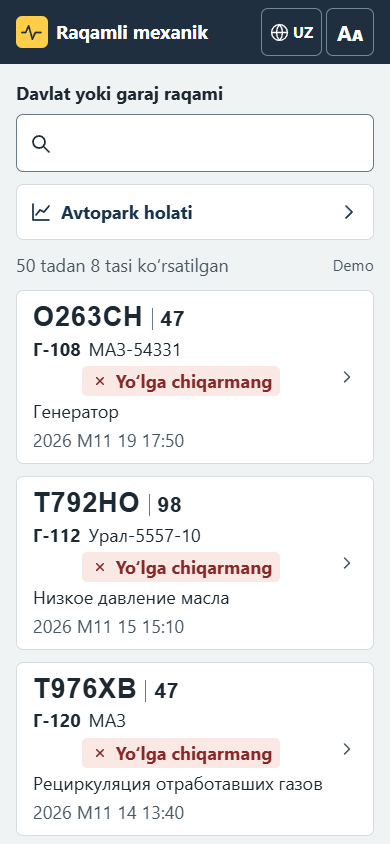
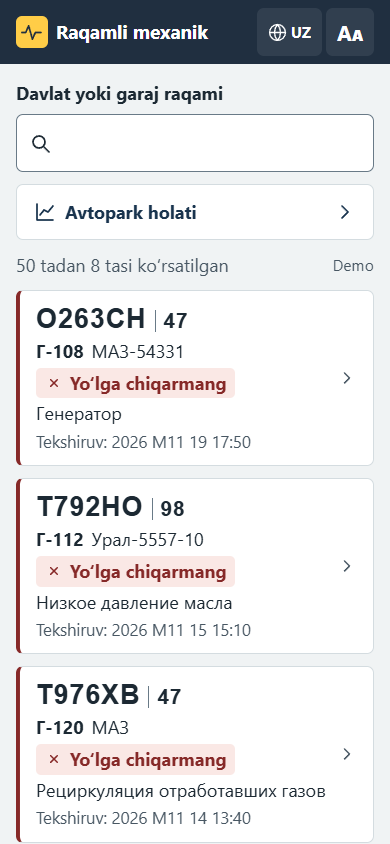
Дизайн: статус в карточках по левой кромке (align-self у плашки), цветная кромка статуса у машин, лёгкие кнопки шапки, кнопка заявки как главное действие, список прошлых проверок без рамок в рамке, компактные ссылки [n] в тексте с увеличенной зоной нажатия, автовысота полей черновика, выравнивание м

diff --git a/web/styles.css b/web/styles.css
@@ -51,7 +51,7 @@ p, li, dd, h1, h2, h3, strong, .brand, .pill, button { overflow-wrap: anywhere; 
 .mark { display: grid; place-items: center; flex: none; width: 32px; height: 32px; border-radius: 6px; background: var(--yellow); color: var(--dark); }
 .mark .icon { width: 23px; height: 23px; }
 .demo { color: var(--muted); font-size: .86rem; }
-#language, #font-size, .back-button, .manual-top button { min-height: 48px; min-width: 48px; padding: 0 8px; border-color: #73879c; }
+#language, #font-size, .back-button, .manual-top button { min-height: 48px; min-width: 48px; padding: 0 10px; border-color: transparent; background: #ffffff14; }
 #language { gap: 4px; font-size: 15px; }
 #language .icon { width: 19px; height: 19px; }
 #font-size { font-size: 21px; }
@@ -76,12 +76,15 @@ button, .source-link { display: inline-flex; min-width: var(--target); min-heigh
 button:not(:disabled):active, summary:active, .citation-row:active, .source-link:active { background: var(--active); color: var(--ink); box-shadow: inset 0 0 0 2px var(--action); }
 button:disabled { color: #4b5865; border-color: #8997a1; background: #e9eef1; cursor: not-allowed; }
 .full { width: 100%; }
+/* главное действие после вердикта: заливка, текст слева, стрелка справа – как у остальных строк-переходов */
+[data-command=draft] { background: var(--action); border-color: var(--action); color: var(--white); justify-content: space-between; text-align: start; padding-inline: 16px 13px; font-size: 1.06rem; }
+[data-command=draft]:not(:disabled):active { background: #325676; color: var(--white); }
 .primary { background: var(--action); border-color: var(--action); color: var(--white); font-size: 1.06rem; }
 .primary:not(:disabled):active { background: #325676; color: var(--white); }
 .icon-button { width: var(--target); padding: 0; flex: none; }
 .top button { background: transparent; color: var(--white); }
 .top button:not(:disabled):active { background: #516b84; color: var(--white); }
-.pill { display: inline-flex; align-items: center; justify-self: start; align-self: center; gap: 6px; max-width: 100%; border-radius: 5px; padding: 4px 8px; background: #e4eae8; color: #324445; font-weight: 750; line-height: 1.25; }
+.pill { display: inline-flex; align-items: center; justify-self: start; gap: 6px; max-width: 100%; border-radius: 5px; padding: 4px 8px; background: #e4eae8; color: #324445; font-weight: 750; line-height: 1.25; }
 .pill .icon { width: 20px; height: 20px; }
 .green { background: var(--green-bg); color: var(--green); }
 .amber { background: var(--amber-bg); color: var(--amber); }
@@ -95,10 +98,10 @@ button:disabled { color: #4b5865; border-color: #8997a1; background: #e9eef1; cu
 .search:focus-within { outline: 3px solid #005bad; outline-offset: 2px; }
 .search input { width: 100%; min-width: 0; min-height: var(--target); padding: 8px 10px 8px 0; border: 0; outline: none; background: transparent; }
 .search button { border: 0; }
-.wide-link { width: 100%; justify-content: flex-start; color: var(--action); border-color: var(--line); }
+.wide-link { width: 100%; justify-content: flex-start; padding-inline: 16px; color: var(--action); border-color: var(--line); }
 .wide-link .icon:last-child { margin-inline-start: auto; }
 .vehicle-list { display: grid; gap: 12px; }
-.vehicle-row, .check-row { width: 100%; padding: 12px 16px; border-color: var(--line); display: grid; grid-template-columns: minmax(0,1fr) 20px; align-items: center; text-align: left; font-weight: 400; }
+.vehicle-row, .check-row { width: 100%; padding: 14px 16px; border-color: var(--line); display: grid; grid-template-columns: minmax(0,1fr) 20px; align-items: center; text-align: left; font-weight: 400; }
 .vehicle-row > .icon, .check-row > .icon { width: 20px; color: var(--muted); }
 .row-copy, .vehicle-head, .selection, .check-copy { display: grid; gap: 8px; min-width: 0; }
 .plate { justify-self: start; display: inline-flex; align-items: baseline; white-space: nowrap; font: 770 1.52rem/1.04 Arial, sans-serif; font-variant-numeric: lining-nums tabular-nums; font-feature-settings: 'zero' 0; letter-spacing: .025em; }
@@ -106,11 +109,17 @@ button:disabled { color: #4b5865; border-color: #8997a1; background: #e9eef1; cu
 .vehicle-head .plate { font-size: 1.83rem; }
 .row-model, .status-line { display: flex; flex-wrap: wrap; align-items: baseline; gap: 4px 8px; min-width: 0; }
 .row-model > span, .cause { overflow-wrap: anywhere; }
-.garage { white-space: nowrap; }
+.garage { white-space: nowrap; font-weight: 650; }
 .status-line { flex-direction: column; align-items: flex-start; }
+/* цветная кромка слева – статус читается боковым зрением ещё до текста */
+.vehicle-row { border-inline-start-width: 4px; }
+.vehicle-row[data-stage=quarantine] { border-inline-start-color: var(--red); }
+.vehicle-row[data-stage=anomaly] { border-inline-start-color: #d29a00; }
+.vehicle-row[data-stage=check_failed] { border-inline-start-color: var(--violet); }
+.vehicle-row[data-stage=normal] { border-inline-start-color: #3a9a63; }
 .cause { color: var(--ink); }
 .vehicle-row .row-copy { gap: 6px; }
-.vehicle-row .row-date { color: var(--muted); font-size: 1rem; }
+.vehicle-row .row-date { color: var(--muted); font-size: .92rem; }
 .vehicle-row .plate-region { margin-inline-start: 8px; padding-inline-start: 8px; }
 .selection time, .check-copy time { font-weight: 650; }
 .selection .primary { margin-top: 4px; }
@@ -121,7 +130,7 @@ button:disabled { color: #4b5865; border-color: #8997a1; background: #e9eef1; cu
 .fleet-count strong { font-size: 1.29rem; line-height: 1.15; font-variant-numeric: tabular-nums; }
 .fleet-count[aria-pressed=true] { border-color: currentColor; box-shadow: inset 0 0 0 1px currentColor; }
 .context { min-width: 0; display: flex; align-items: baseline; flex-wrap: wrap; justify-content: space-between; gap: 4px 12px; }
-.context time { color: var(--muted); font-weight: 600; }
+.context time { color: var(--muted); font-weight: 500; font-size: .92rem; }
 .verdict, .turn, #conversation { display: grid; gap: 12px; min-width: 0; }
 .turn:empty { display: none; }
 .verdict-head { display: grid; gap: 12px; padding: 16px; border-radius: var(--radius); }
@@ -133,7 +142,7 @@ button:disabled { color: #4b5865; border-color: #8997a1; background: #e9eef1; cu
 .priority-label { font-weight: 650; }
 .warnings { display: grid; grid-template-columns: 24px minmax(0,1fr); gap: 8px; }
 .warnings h3 { margin-bottom: 4px; }
-.reasons { margin: 0; padding-inline-start: 24px; }
+.reasons { margin: 0; padding-inline-start: 1.15em; }
 .reasons li + li { margin-top: 4px; }
 .warnings ul:has(li:only-child) { list-style: none; padding-inline: 0; }
 .metrics { display: grid; gap: 8px; }
@@ -144,7 +153,11 @@ summary { display: flex; min-height: var(--target); align-items: center; flex-wr
 summary::-webkit-details-marker { display: none; }
 summary::after { content: ''; width: 9px; height: 9px; flex: none; border: solid var(--ink); border-width: 0 2px 2px 0; transform: rotate(45deg); margin-inline-start: auto; margin-inline-end: 3px; }
 details[open] > summary::after { transform: rotate(225deg); }
-.fold-body { display: grid; gap: 8px; margin: 0; padding: 0 12px 12px; min-width: 0; }
+.fold-body { display: grid; gap: 8px; margin: 0; padding: 0 16px 16px; min-width: 0; }
+/* строки внутри раскрывающегося блока – список с разделителями, без рамок в рамке */
+.fold .checks { gap: 0; margin-inline: -16px; margin-bottom: -16px; }
+.fold .check-row { border: 0; border-top: 1px solid var(--line); border-radius: 0; background: transparent; }
+.fold .check-row:last-child { border-radius: 0 0 8px 8px; }
 ol.fold-body { padding-inline-start: 30px; }
 .user-message { justify-self: end; max-width: 94%; padding: 10px 12px; border: 1px solid var(--line); border-radius: 8px 8px 3px 8px; background: #e0eae4; }
 .user-message p, .receipt-fields dd { white-space: pre-wrap; }
@@ -152,15 +165,17 @@ ol.fold-body { padding-inline-start: 30px; }
 .markdown ul, .markdown ol { display: grid; gap: 8px; padding-inline-start: 24px; margin: 0; }
 .measure { white-space: nowrap; }
 .citation-chip { display: inline-flex; align-items: center; justify-content: center; padding: 2px 6px; border-radius: 5px; background: var(--neutral-bg); color: var(--action); font-weight: 750; text-decoration: underline; white-space: nowrap; }
-.inline-cite { min-height: 44px; min-width: 44px; vertical-align: middle; }
+/* ссылка в тексте выглядит компактно и не раздвигает строки, а зона нажатия расширена невидимой рамкой */
+.inline-cite { position: relative; min-height: 0; min-width: 0; padding: 0 5px; font-size: .86em; line-height: 1.35; vertical-align: baseline; }
+.inline-cite::after { content: ''; position: absolute; inset: -12px -8px; }
 .inline-cite:active { background: var(--active); }
 .message-sources { display: grid; gap: 8px; padding-top: 12px; border-top: 1px solid var(--line); }
-.message-sources ul { list-style: none; padding: 0; margin: 0; display: grid; gap: 12px; }
+.message-sources ul { list-style: none; padding: 0; margin: 0; display: grid; gap: 8px; }
 .message-sources li + li { border-top: 1px solid var(--line); padding-top: 8px; }
 .citation-row { display: flex; align-items: center; min-height: 48px; color: var(--action); text-decoration: underline; text-underline-offset: 3px; }
 .citation-excerpt { display: -webkit-box; -webkit-box-orient: vertical; -webkit-line-clamp: 2; overflow: hidden; }
 .source-excerpt.is-expanded .citation-excerpt { display: block; }
-.excerpt-toggle { min-width: 48px; min-height: 48px; border-color: transparent; padding-inline: 0; font-size: .93rem; text-decoration: underline; color: var(--action); }
+.excerpt-toggle { justify-self: start; min-width: 48px; min-height: 48px; border-color: transparent; padding-inline: 0; font-size: .93rem; text-decoration: underline; color: var(--action); }
 .source-link { justify-content: flex-start; text-align: start; color: var(--green); overflow-wrap: anywhere; }
 .source-link .icon:last-child { margin-inline-start: auto; }
 .notice { padding: 12px; border-radius: 8px; }
@@ -185,7 +200,10 @@ ol.fold-body { padding-inline-start: 30px; }
 #send-question { max-width: 10ch; min-width: 94px; padding-inline: 8px; font-size: .94rem; }
 #voice-live { align-self: stretch; }
 .field { display: grid; font-weight: 700; gap: 8px; min-width: 0; }
-.field textarea { resize: vertical; max-height: 16em; }
+.field-static { display: grid; gap: 4px; }
+.field-static > span { font-weight: 700; }
+.field-static strong { font-weight: 600; }
+.field textarea { resize: vertical; max-height: 24em; overflow-y: auto; }
 @supports (field-sizing: content) { .field textarea { field-sizing: content; } }
 .receipt { display: grid; gap: 8px; padding: 16px; border-radius: var(--radius); }
 .receipt-id { font-size: 2rem; line-height: 1.1; }
@@ -199,6 +217,7 @@ ol.fold-body { padding-inline-start: 30px; }
 #manual, #language-dialog { border: 0; background: var(--paper); color: var(--ink); }
 dialog::backdrop { background: #172326b3; }
 #language-dialog { width: min(calc(100% - 24px), 420px); max-height: calc(100dvh - 24px); border-radius: 12px; padding: 16px; }
+.sheet-head button { border-color: transparent; background: var(--neutral-bg); }
 .sheet-head { display: flex; align-items: center; justify-content: space-between; gap: 8px; margin-bottom: 8px; }
 .language-list { display: grid; gap: 4px; }
 .language-list button { justify-content: flex-start; text-align: start; border-color: var(--line); }
@@ -213,7 +232,8 @@ dialog::backdrop { background: #172326b3; }
 .manual-controls { display: grid; grid-template-columns: minmax(0, 1fr); gap: 8px; }
 .page-navigation, .zoom-group { display: flex; align-items: center; justify-content: space-between; gap: 8px; }
 .page-navigation strong, .zoom-group output { white-space: nowrap; font-variant-numeric: tabular-nums; }
-.zoom-group > span { margin-inline-end: auto; font-weight: 700; }
+.zoom-group { justify-content: flex-start; }
+.zoom-group > span { margin-inline-end: 4px; font-weight: 700; }
 .manual-text { display: grid; gap: 8px; }
 .page-text { white-space: pre-wrap; overflow-wrap: anywhere; }
 .page-text mark, .matched-quote { background: var(--active); color: var(--ink); }

diff --git a/web/app.js b/web/app.js
@@ -353,7 +353,7 @@ function verdict(c, d, id, opens) {
   const cause = !normal && !fail && !incompatible && d.anomaly_title;
   const entries = Array.isArray(d.urgency_reasons) ? d.urgency_reasons.filter(Boolean) : [];
   // The API sometimes sends a metrics readout as one of the reasons.
-  const isMetricsLine = line => /^(?:оценка отклонения|отклонение|(?:anomaly )?score)\s+\d/i.test(line) && /(?:уверенность|confidence)/i.test(line);
+  const isMetricsLine = line => (/^(?:оценка отклонения|отклонение|(?:anomaly )?score)\s+\d/i.test(line) && /(?:уверенность|confidence)/i.test(line)) || /^код по справочнику/i.test(line);
   const whyLines = entries.map((line, index) => isMetricsLine(line) ? -1 : index).filter(index => index >= 0).slice(0, 2);
   const otherReasons = entries.filter((_, index) => !whyLines.includes(index));
   const card = el('div', {class: `verdict-head ${stages[status][1]}`}, el('h2', {}, vTitle),
@@ -363,7 +363,7 @@ function verdict(c, d, id, opens) {
     el('div', {class: 'next-action'}, !normal && el('h3', {}, t('next')),
       el('p', {}, d.action || t(fail ? 'nextFail' : normal ? 'nextNormal' : 'nextAnomaly')),
       fail && reasons(['recordTip1', 'recordTip2', 'recordTip3'].map(key => t(key)))),
-    whyLines.length ? el('div', {class: 'verdict-why'}, el('h3', {}, t('why')), reasons(whyLines.map(index => entries[index]))) : null,
+    !fail && whyLines.length ? el('div', {class: 'verdict-why'}, el('h3', {}, t(normal ? 'note' : 'why')), reasons(whyLines.map(index => entries[index]))) : null,
     priorityLabel(d.urgency) && el('p', {class: 'priority-label'}, priorityLine(d.urgency)));
   const metrics = el('dl', {class: 'metrics'}, metric(t('score'), score(d.anomaly_score) ? `${scoreText(d.anomaly_score)} / 1` : null),
     metric(t('confidence'), score(d.confidence) ? `${scoreText(d.confidence)} / 1` : null), metric(t('quality'), qualities[d.signal_quality] && t(qualities[d.signal_quality])));
@@ -796,8 +796,10 @@ async function sendChat(c, mode, question = '') {
 }
 
 function field(c, name, label, rows, placeholder = '') {
-  const input = el('textarea', {name, rows, placeholder, required: name === 'conclusion', oninput: e => { c.edits[name] = e.target.value; }});
+  const grow = node => { node.style.height = 'auto'; node.style.height = `${node.scrollHeight + 2}px`; };
+  const input = el('textarea', {name, rows, placeholder, required: name === 'conclusion', oninput: e => { c.edits[name] = e.target.value; grow(e.target); }});
   input.value = displayText(c.edits[name]);
+  requestAnimationFrame(() => grow(input));
   return el('label', {class: 'field'}, el('span', {}, label), input);
 }
 function renderDraft(v, s, c) {
@@ -812,11 +814,11 @@ function renderDraft(v, s, c) {
   syncOverride();
   const references = (d.references ?? []).filter(r => r.manual_id && Number.isInteger(r.pdf_page) && r.pdf_page > 0);
   const form = el('form', {class: 'stack', id: 'draft-form', onsubmit: e => { e.preventDefault(); confirmTicket(c); }},
-    el('section', {class: 'box stack'}, d.anomaly_type || c.verdict?.anomaly_title ? el('p', {class: 'muted'}, `${t('faultType')}: `, el('strong', {}, [d.anomaly_type, c.verdict?.anomaly_title].filter(Boolean).join(' – '))) : null, field(c, 'conclusion', t('conclusion'), 2)),
+    el('section', {class: 'box stack'}, d.anomaly_type || c.verdict?.anomaly_title ? el('div', {class: 'field-static'}, el('span', {}, t('faultType')), el('strong', {}, [d.anomaly_type, c.verdict?.anomaly_title].filter(Boolean).join(' – '))) : null, field(c, 'conclusion', t('conclusion'), 2)),
     el('section', {class: 'box stack'}, el('label', {class: 'field'}, el('span', {}, t('priority')), urgency), overrideField,
       details(t('whyPriority'), reasons(d.urgency_reasons))),
     el('section', {class: 'box stack'}, field(c, 'operations', t('work'), 2, t('newLine')), field(c, 'spare_parts', t('parts'), 1, t('newLine'))),
-    references.length ? el('section', {class: 'box stack'}, el('h2', {}, t('sources')), references.map(r => citationLink({manual_id: r.manual_id, title: r.title || r.manual, page: r.pdf_page}, [icon('book'), t('pageRef', {name: r.title || r.manual, page: r.pdf_page}), icon('next')], {class: 'source-link'}))) : null,
+    references.length ? el('section', {class: 'box stack'}, el('h3', {}, t('sources')), references.map(r => citationLink({manual_id: r.manual_id, title: r.title || r.manual, page: r.pdf_page}, [icon('book'), t('pageRef', {name: r.title || r.manual, page: r.pdf_page}), icon('next')], {class: 'source-link'}))) : null,
     el('p', {id: 'ticket-error', role: 'alert', class: 'notice red', hidden: !c.confirmError}, c.confirmError || ''),
   );
   const warning = warnings(d.warnings);

diff --git a/web/i18n.js b/web/i18n.js
@@ -159,6 +159,7 @@ priorityLine|Приоритет: {level}|Ustuvorlik: {level}|Афзалият: {
 more|Еще|Ko‘proq|Бештар|Дагы|Толығырақ|और पढ़ें|More
 less|Свернуть|Yig‘ish|Пинҳон кардан|Жыйноо|Жию|कम दिखाएँ|Show less
 zoom|Масштаб|Masshtab|Миқёс|Масштаб|Масштаб|ज़ूम|Zoom
+note|Учтите|E’tibor bering|Диққат кунед|Эске алыңыз|Ескеріңіз|ध्यान दें|Keep in mind
 checkedLabel|Проверка|Tekshiruv|Санҷиш|Текшерүү|Тексеру|जाँच|Check
 checkedAt|Дата и время проверки|Tekshiruv sanasi va vaqti|Сана ва вақти санҷиш|Текшерүүнүн күнү жана убактысы|Тексерілген күн мен уақыт|जाँच की तारीख और समय|Check date and time
 overrideLabel|Причина изменения приоритета|Ustuvorlikni o‘zgartirish sababi|Сабаби иваз кардани афзалият|Артыкчылыкты өзгөртүүнүн себеби|Басымдықты өзгерту себебі|प्राथमिकता बदलने की वजह|Reason for changing priority

diff --git a/app/priority.py b/app/priority.py
@@ -133,8 +133,8 @@ def evaluate(result: dict, engine: str, sessions: list[dict], tickets: list[dict
 
     if sev == "C":
         urg, rule = "high", "R4-critical"
-        action = ("Не выпускать. Если машина в рейсе – остановиться в безопасном месте и заглушить двигатель. "
-                  "Выпуск только после дефектовки и устранения причины.")
+        action = ("Если машина в рейсе – остановиться в безопасном месте и заглушить двигатель. "
+                  "На линию – только после дефектовки и устранения причины.")
         reasons.insert(0, f"«{result.get('anomaly_title')}» – критичная неисправность: работа с ней может закончиться тяжёлой поломкой двигателя.")
     elif sev == "S" and (strong or growing or (repeated and not doubtful)):
         urg, rule = "high", "R5-significant-strong"

diff --git a/web/check_ui.py b/web/check_ui.py
@@ -177,7 +177,7 @@ def screenshot(page, name):
     page.evaluate('document.fonts.ready')
     assert page.evaluate('document.documentElement.scrollWidth === innerWidth'), name
     assert page.locator('main').evaluate('e => e.scrollWidth <= e.clientWidth'), name
-    measurements = page.locator('button:visible, select:visible, textarea:visible, input:not([type=radio]):visible, summary:visible, .check-row:visible, a:visible').evaluate_all('''nodes => nodes.map(node => {
+    measurements = page.locator('button:visible, select:visible, textarea:visible, input:not([type=radio]):visible, summary:visible, .check-row:visible, a:visible:not(.inline-cite)').evaluate_all('''nodes => nodes.map(node => {
         const r = node.getBoundingClientRect();
         const target = node.matches('.top button, .excerpt-toggle, a') ? 44 : 56;
         return [node.id || node.tagName, r.width, r.height, target];
